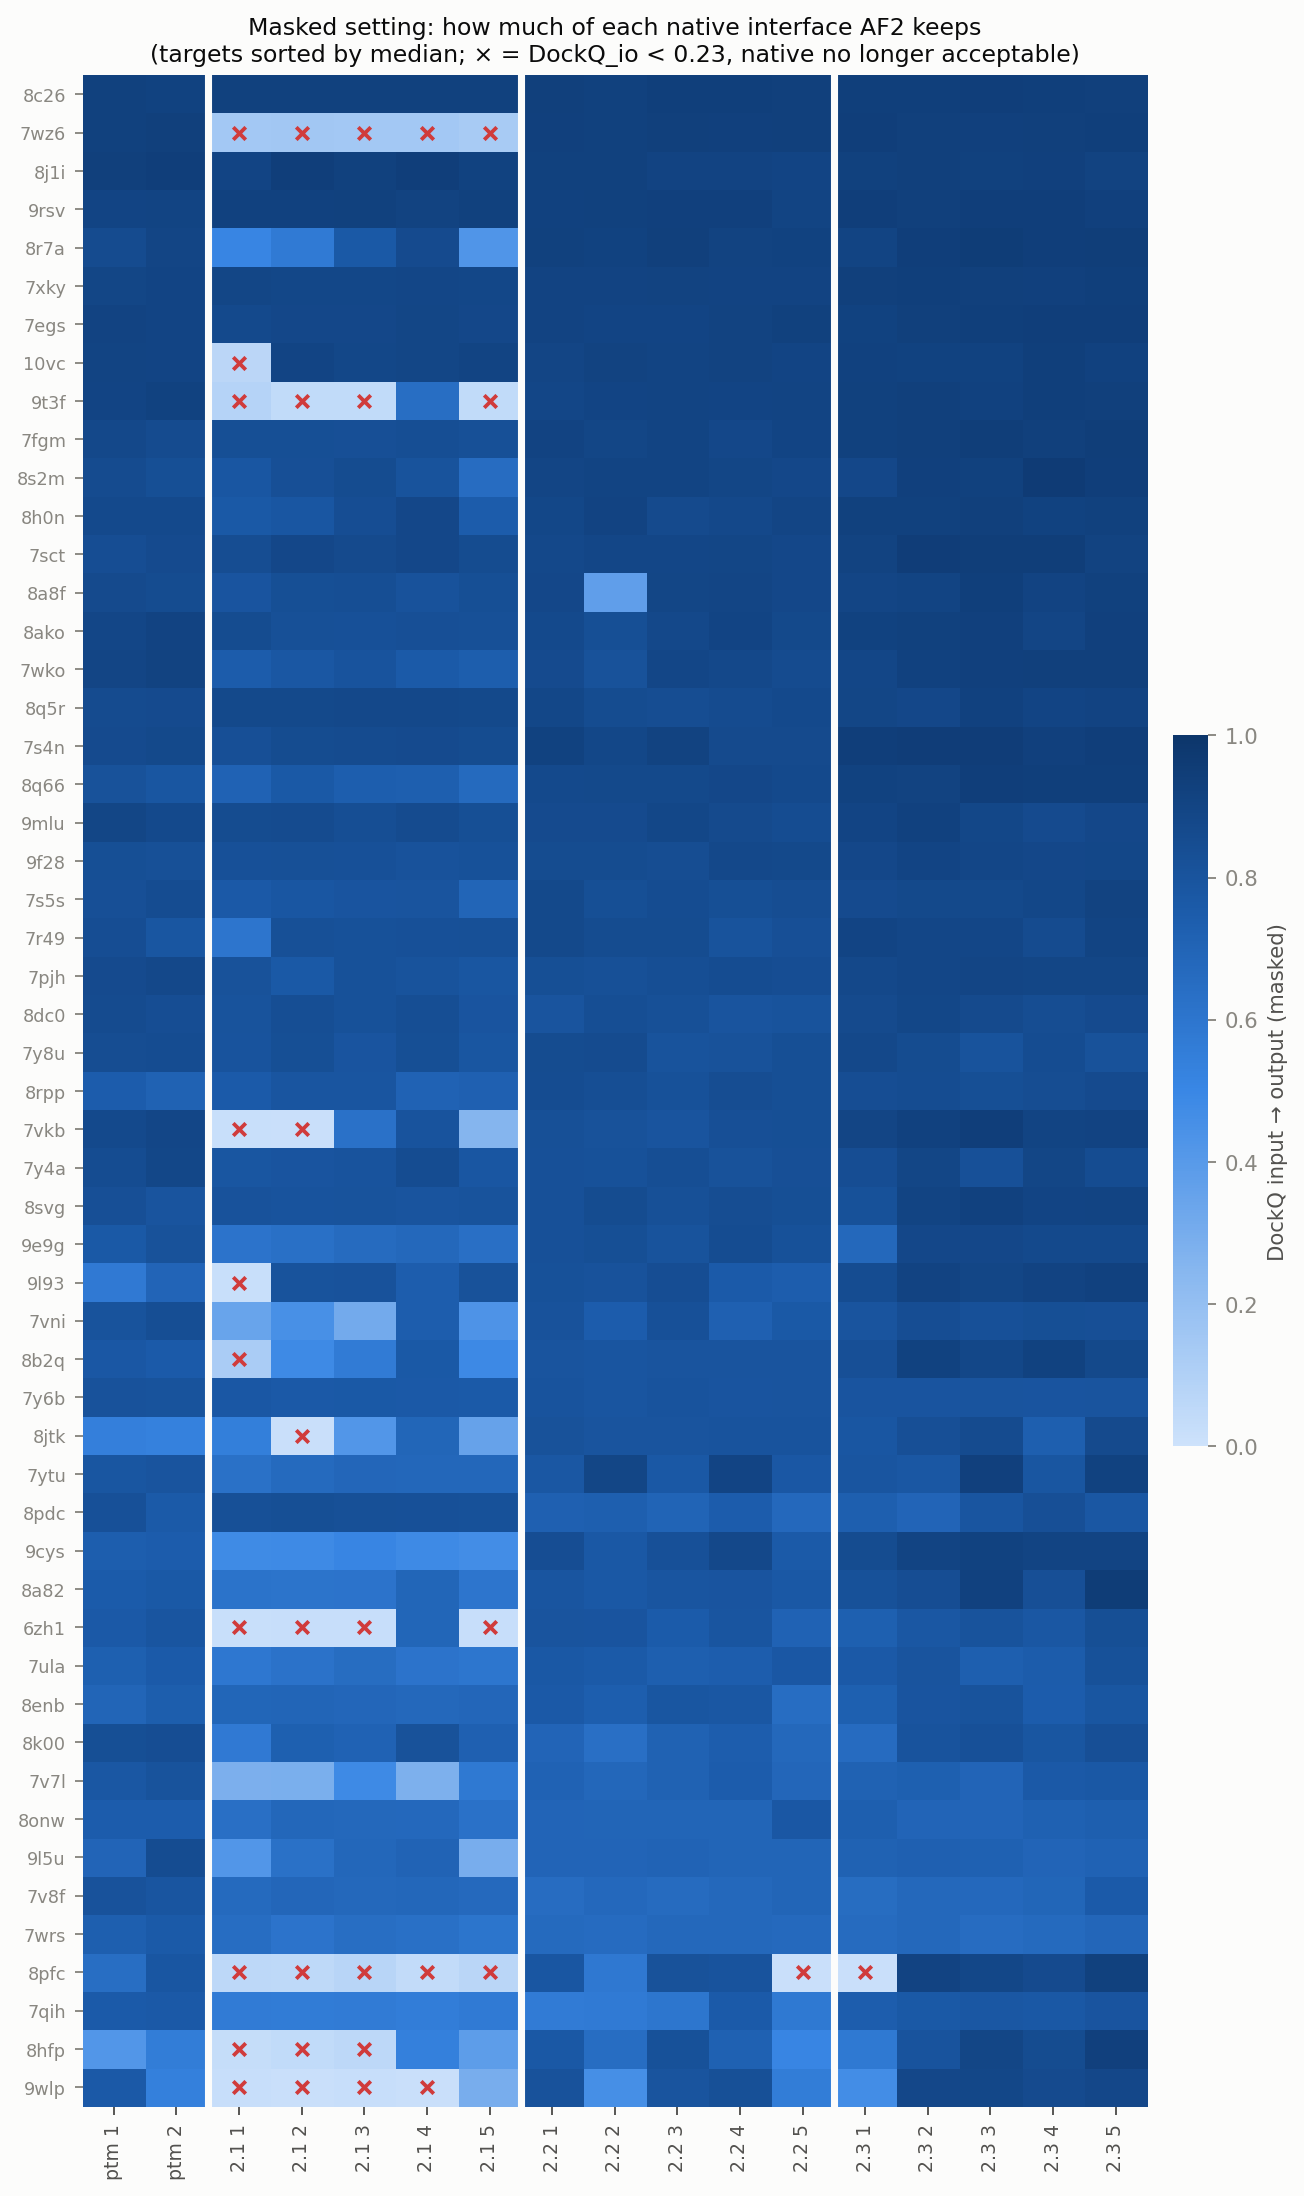
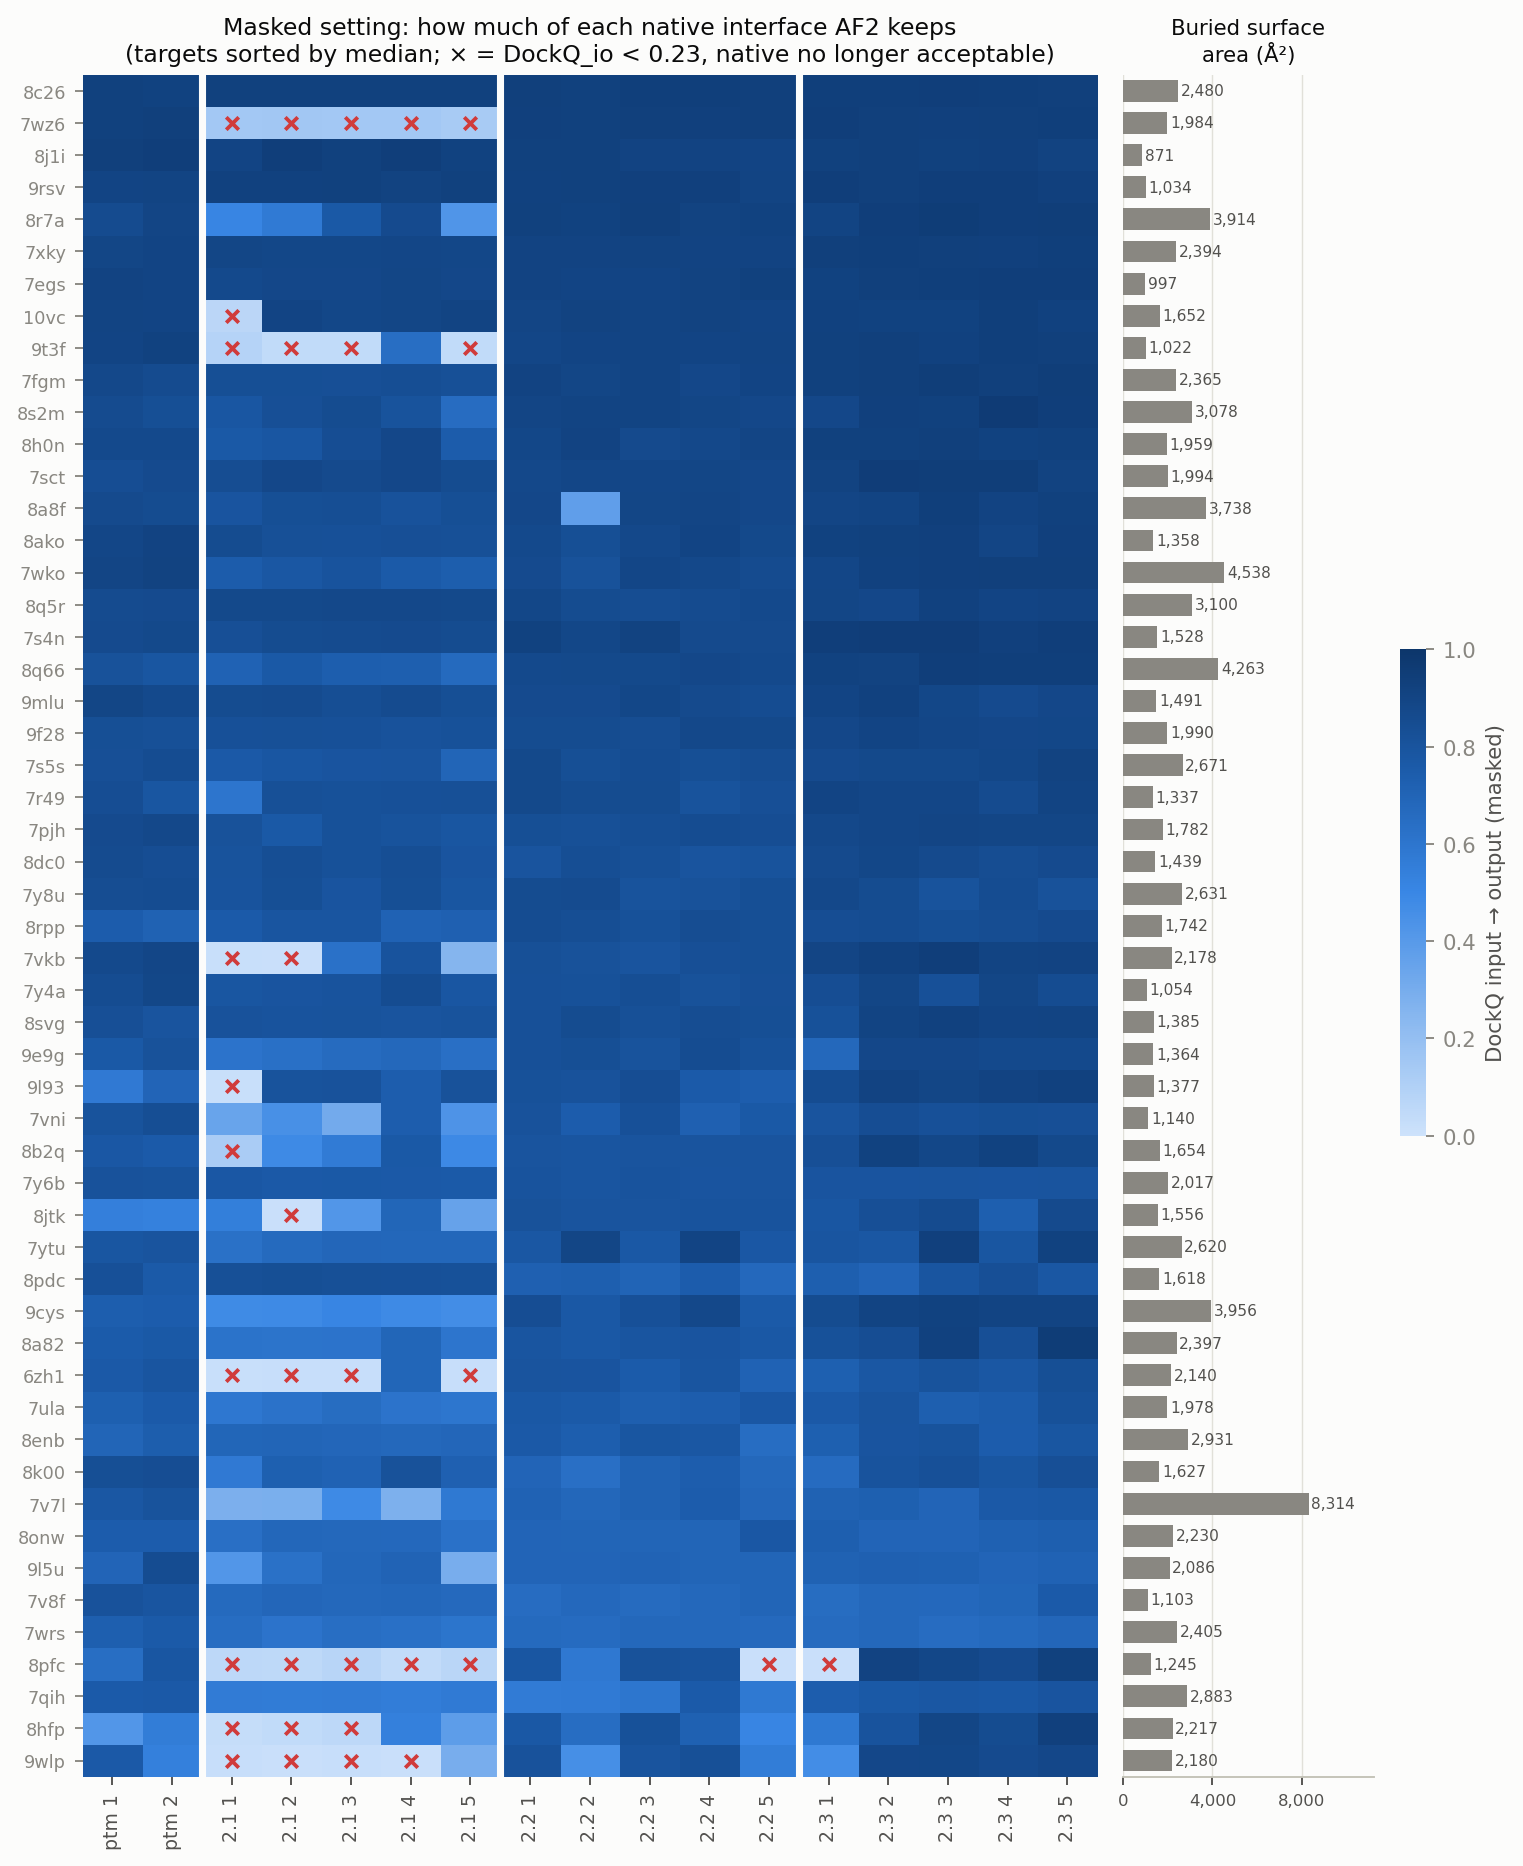
X-ray benchmark: buried surface area next to the masked heatmap
Buried surface area of each input complex (Shrake-Rupley, both sides), computed
by scripts/prep/buried_surface.py into interface_bsa_hetero.csv and shown as a
bar column beside the masked DockQ_io heatmap. Interface size does not explain
which natives AF2.1 loses (Spearman -0.16).

diff --git a/examples/xray_benchmark/scripts/plot_masked.py b/examples/xray_benchmark/scripts/plot_masked.py
@@ -4,7 +4,7 @@ Full resolution: sequence and side chains kept, 0 recycles (results/scores_xray_
 Masked: sequence and side chains masked, 1 recycle, as in Roney & Ovchinnikov 2022 and the authors'
 AF2Rank notebook (results/scores_xray_hetero_masked_all_weights.csv).
 Usage (from examples/xray_benchmark): python scripts/plot_masked.py
-Writes figures/natives_masked_vs_fullres.png and figures/masked_dockq_io_heatmap.png and prints a summary.
+Writes figures/natives_masked_vs_fullres.png and figures/masked_dockq_io_heatmap.png (with the buried surface area\nfrom interface_bsa_hetero.csv, made by scripts/prep/buried_surface.py) and prints a summary.
 """
 from pathlib import Path
 
@@ -71,7 +71,10 @@ WL = {w: ("ptm " if "ptm" in w else {"multimer": "2.1 ", "multimer_v2": "2.2 ", 
 piv = m.pivot_table(index="target", columns="weight", values="dockq_io").reindex(columns=ORDER)
 piv = piv.loc[piv.median(axis=1).sort_values(ascending=False).index]
 cmap = LinearSegmentedColormap.from_list("blues", ["#cde2fb", "#86b6ef", "#3987e5", "#1c5cab", "#0d366b"])
-fig, ax = plt.subplots(figsize=(8.2, 13))
+bsa = pd.read_csv(HERE / "interface_bsa_hetero.csv").set_index("pdb_id").bsa_total.reindex(piv.index)
+fig = plt.figure(figsize=(10.2, 13))
+gs = fig.add_gridspec(1, 3, width_ratios=[17, 4.2, 0.45], wspace=0.06)
+ax, axb, cax = fig.add_subplot(gs[0]), fig.add_subplot(gs[1]), fig.add_subplot(gs[2])
 im = ax.imshow(piv.values, cmap=cmap, vmin=0, vmax=1, aspect="auto")
 bad = np.argwhere(piv.values < 0.23)
 ax.scatter(bad[:, 1], bad[:, 0], marker="x", s=28, color="#d03b3b", lw=1.6, zorder=3)
@@ -81,12 +84,27 @@ ax.set_xticks(range(len(ORDER)), [WL[w] for w in ORDER], rotation=90, fontsize=8
 ax.set_yticks(range(len(piv)), piv.index, fontsize=7.5)
 for s in ax.spines.values():
     s.set_visible(False)
-cb = fig.colorbar(im, ax=ax, shrink=0.35, pad=0.02); cb.set_label("DockQ input → output (masked)"); cb.outline.set_visible(False)
 ax.set_title("Masked setting: how much of each native interface AF2 keeps\n"
              "(targets sorted by median; × = DockQ_io < 0.23, native no longer acceptable)", fontsize=10, color=INK)
-fig.tight_layout(); fig.savefig(OUT / "masked_dockq_io_heatmap.png", dpi=170, bbox_inches="tight"); plt.close(fig)
+# buried surface area of the input complex, both sides together
+y = np.arange(len(piv))
+axb.barh(y, bsa.values, height=0.68, color="#898781", zorder=2)
+for yi, v in zip(y, bsa.values):
+    axb.text(v + 120, yi, f"{v:,.0f}", va="center", ha="left", fontsize=6.5, color=INK2)
+axb.set_ylim(len(piv) - 0.5, -0.5); axb.set_yticks([])
+axb.set_xlim(0, bsa.max() * 1.35); axb.set_xticks([0, 4000, 8000], ["0", "4,000", "8,000"], fontsize=7)
+axb.grid(axis="x", color=GRID, lw=0.6); axb.set_axisbelow(True)
+for s in ["top", "right", "left"]:
+    axb.spines[s].set_visible(False)
+axb.set_title("Buried surface\narea (Å²)", fontsize=9, color=INK)
+cb = fig.colorbar(im, cax=cax); cb.set_label("DockQ input → output (masked)"); cb.outline.set_visible(False)
+cax.set_position([cax.get_position().x0, 0.4, cax.get_position().width, 0.22])
+fig.savefig(OUT / "masked_dockq_io_heatmap.png", dpi=170, bbox_inches="tight"); plt.close(fig)
 m = d[d.setting == "masked_rec1"]
 print(d.groupby(["family", "setting"])[["i_ptm", "dockq_io"]].median().round(2).to_string())
 print(m.groupby("family").agg(runs=("dockq_io", "size"), iptm_ge_0_6=("i_ptm", lambda x: (x >= 0.6).mean()),
                               lost=("dockq_io", lambda x: int((x < 0.23).sum()))).round(2).to_string())
+from scipy.stats import spearmanr
+med = piv.median(axis=1); v1 = piv[[c for c in ORDER if c.endswith("_multimer")]].median(axis=1)
+print("Spearman BSA vs median masked DockQ_io: all weights %.2f, AF2.1 only %.2f" % (spearmanr(bsa, med)[0], spearmanr(bsa, v1)[0]))
 print("wrote", OUT)

diff --git a/examples/xray_benchmark/scripts/prep/buried_surface.py b/examples/xray_benchmark/scripts/prep/buried_surface.py
@@ -1,0 +1,38 @@
+"""Buried surface area (BSA) of each X-ray heterodimer, from the exact two-chain inputs AF2Rank scored.
+
+BSA = SASA(chain A) + SASA(chain B) - SASA(complex), summed over both sides (Å²), heavy atoms only,
+Shrake-Rupley with Biopython defaults (probe 1.40 Å, 100 points per atom).
+Usage: python scripts/prep/buried_surface.py <inputs dir with <id>/models/<id>_model1.pdb> [out csv]
+Default output: interface_bsa_hetero.csv (only the ids in kept_xray_hetero.txt).
+"""
+import sys
+from pathlib import Path
+
+from Bio.PDB import PDBParser
+from Bio.PDB.SASA import ShrakeRupley
+
+HERE = Path(__file__).resolve().parents[2]
+inputs = Path(sys.argv[1])
+out = Path(sys.argv[2]) if len(sys.argv) > 2 else HERE / "interface_bsa_hetero.csv"
+kept = [x.strip().lower() for x in (HERE / "kept_xray_hetero.txt").read_text().split() if x.strip()]
+sr, parser = ShrakeRupley(), PDBParser(QUIET=True)
+
+
+def sasa(entity):
+    sr.compute(entity, level="A")
+    return sum(a.sasa for a in entity.get_atoms())
+
+
+rows = ["pdb_id,chain_A,chain_B,sasa_A,sasa_B,sasa_complex,bsa_total,bsa_per_side"]
+for pid in kept:
+    model = parser.get_structure(pid, inputs / pid / "models" / f"{pid}_model1.pdb")[0]
+    chains = list(model)
+    if len(chains) != 2:
+        raise SystemExit(f"{pid}: expected 2 chains, found {len(chains)}")
+    a, b = (sasa(c.copy()) for c in chains)
+    ab = sasa(model)
+    bsa = a + b - ab
+    rows.append(f"{pid},{chains[0].id},{chains[1].id},{a:.1f},{b:.1f},{ab:.1f},{bsa:.1f},{bsa / 2:.1f}")
+    print(pid, round(bsa), flush=True)
+out.write_text("\n".join(rows) + "\n")
+print("wrote", out)

diff --git a/examples/xray_benchmark/README.md b/examples/xray_benchmark/README.md
@@ -84,6 +84,10 @@ At full resolution AlphaFold reproduces almost any template interface, right or 
 
 ![Masked DockQ input→output per dimer and weight](figures/masked_dockq_io_heatmap.png)
 
+The right-hand column is the buried surface area of each input complex, over both sides (`interface_bsa_hetero.csv`). Interface size does not explain which natives are lost:
+- the lost AF2.1 interfaces bury 1,000–2,200 Å², in the middle of the range;
+- the Spearman correlation between buried surface area and the median masked DockQ_io is −0.10 over all weights and −0.16 for AF2.1.
+
 Scores: `results/scores_xray_hetero_masked_all_weights.csv`; figures: `scripts/plot_masked.py`.
 
 ## Structures
@@ -110,11 +114,12 @@ The heterodimer benchmark of Genz et al. (2025) has 262 heterodimers released af
 | `xray_hetero.csv`, `xray_homo.csv` | one row per dimer: chains, entities, UniProt, residues, resolution, release date, novelty reason, 30%/100% clusters, interface area, citation; `source` gives the size-matched or added group |
 | `kept_xray_hetero.txt`, `kept_xray_homo.txt` | PDB IDs per set |
 | `fasta_hetero/` | trimmed FASTA files of the 53 heterodimers (coordinates: biological assembly 1 of each PDB entry, chains as in the CSV) |
+| `interface_bsa_hetero.csv` | buried surface area of each input complex (Shrake-Rupley, heavy atoms, probe 1.4 Å): SASA per chain and of the complex, `bsa_total` over both sides and `bsa_per_side` (RCSB's `interface_area_A2` matches `bsa_per_side`) |
 | `interface_ss_hetero.csv` | interface residues and their helix/strand fraction per chain (8PFC chain A: loops only) |
 | `genz2025_overlap.csv` | where each Genz et al. 2025 heterodimer leaves our selection |
 | `funnel.csv` | counts after each selection step |
 | `results/scores_xray_hetero_all_weights.csv` | AF2Rank scores at full resolution, 0 recycles; one row per heterodimer and weight (53 × 17) |
 | `results/scores_xray_hetero_masked_all_weights.csv` | AF2Rank scores in the paper's masked setting (sequence and side chains masked, 1 recycle); same layout |
-| `scripts/` | `step1_fetch.py` and `step2_select.py` (RCSB search and selection), `rcsb_util.py`, `prep/` (input building, strict-cleaning check, interface secondary structure), `plot_scores.py` and `plot_masked.py` (figures) |
+| `scripts/` | `step1_fetch.py` and `step2_select.py` (RCSB search and selection), `rcsb_util.py`, `prep/` (input building, strict-cleaning check, interface secondary structure, buried surface area), `plot_scores.py` and `plot_masked.py` (figures) |
 
 The selection uses the public RCSB APIs (metadata only) and reflects the PDB on 2026-11-21. The PDB archive data are [CC0](https://www.rcsb.org/pages/usage-policy).
